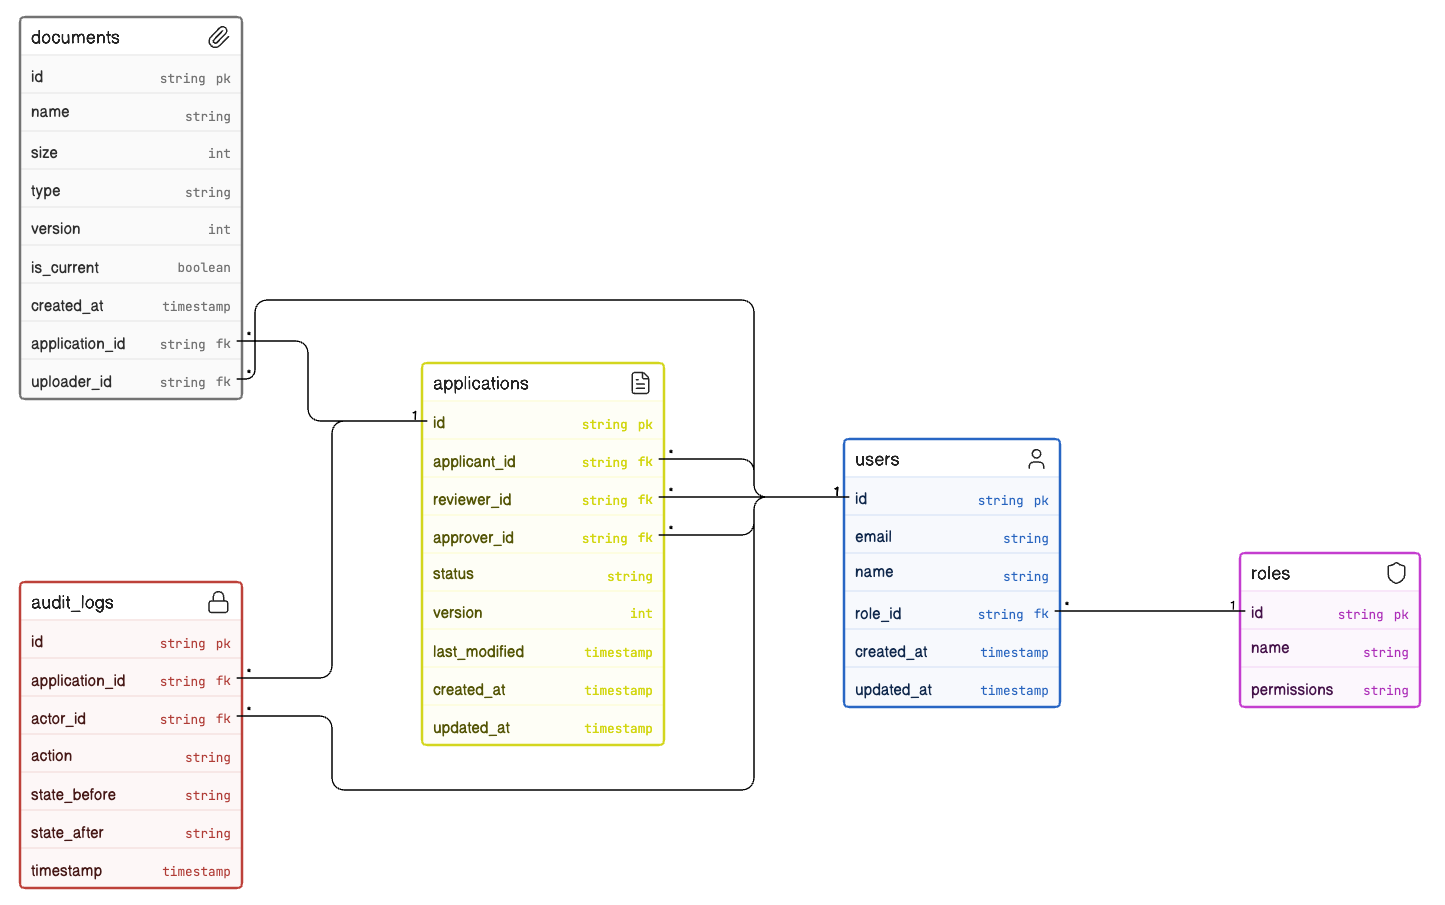
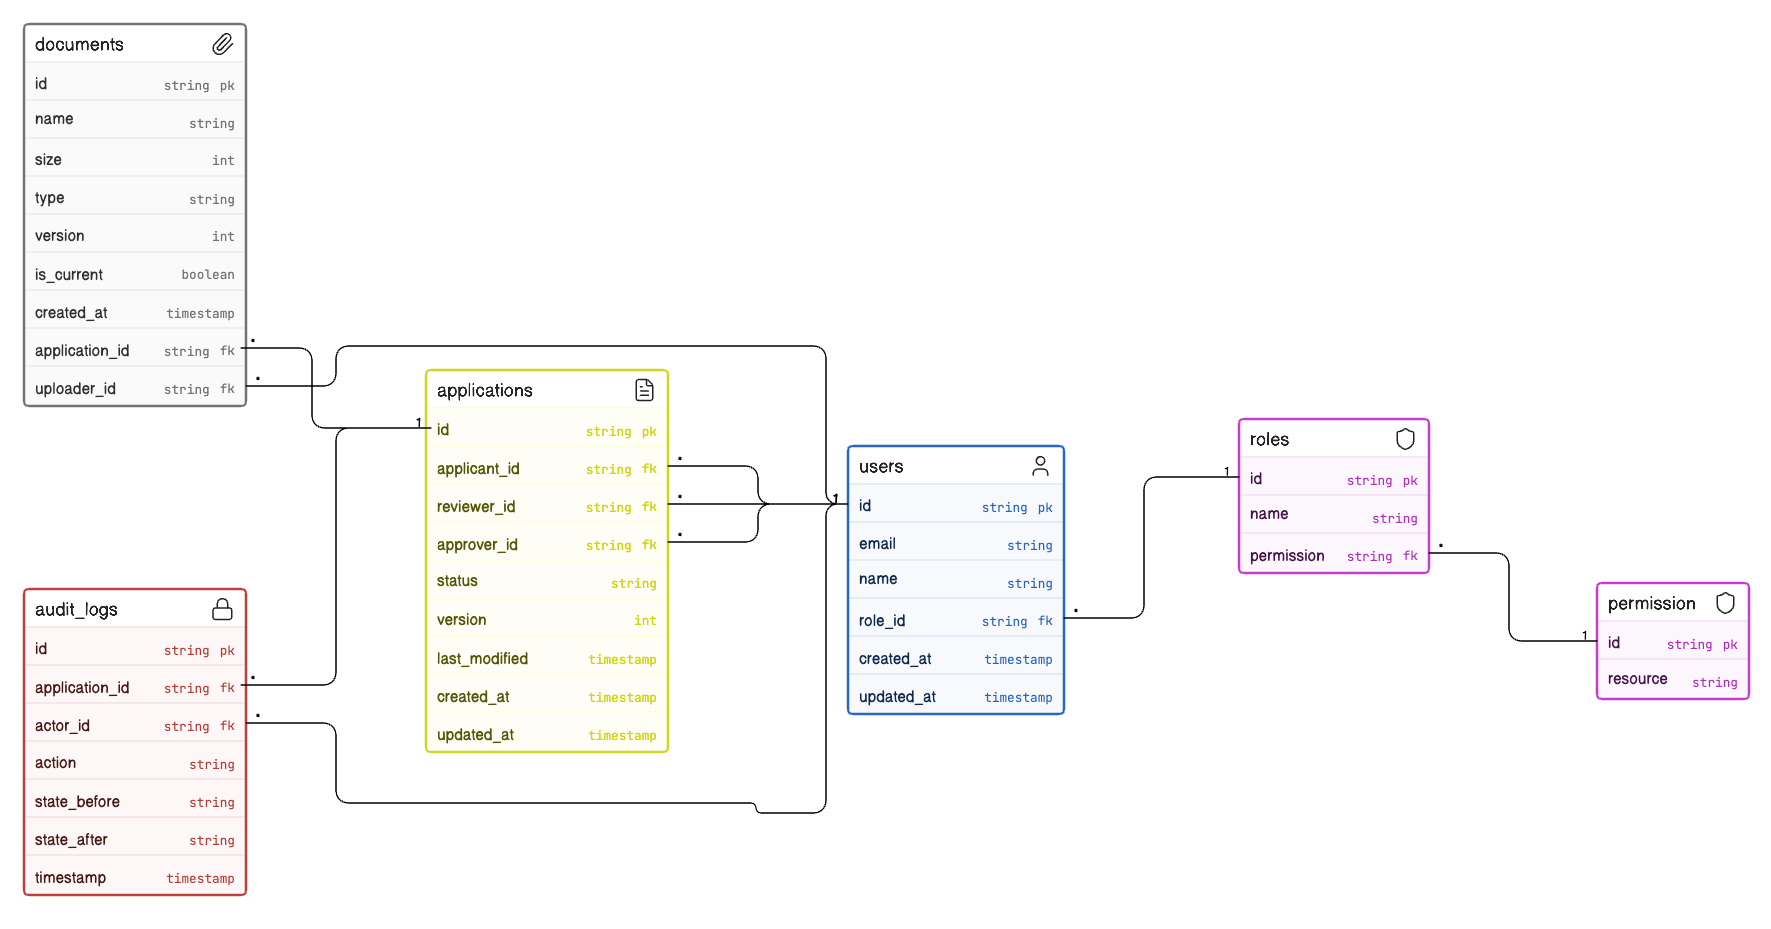
adds Role table to design document

Changed region(s): [[0.0, 0.0, 0.9965, 0.9901], [0.436, 0.8663, 0.4671, 0.8972]]

diff --git a/Design.md b/Design.md
@@ -47,4 +47,17 @@ The platform separates **public edge** traffic from **internal** services and us
 - `documents`: linked to applications; supports document versioning (`version`, `is_current`, `uploader_id`).
 - `audit_logs`: immutable transition history (`actor_id`, `action`, `state_before`, `state_after`, `timestamp`).
 - `users`: identity store for all actors; linked to roles.
-- `roles`: role definitions and permissions (Applicant/Reviewer/Approver).
+- `roles`: role definitions (Applicant/Reviewer/Approver).
+- `Permissions`: Permission Definition (CRUD) to designated resources
+
+## Roles & Granular Permissions
+
+To satisfy the requirement for distinct permission boundaries, the system uses Role-Based Access Control (RBAC) linked to specific resource permissions. 
+
+| Role | Resource | Permission / Action | Business Justification |
+| --- | --- | --- | --- |
+| Applicant | `applications` | create, read_own, update_draft | Applicants must manage their own lifecycle but are restricted from seeing competitor data. |
+| Applicant | `documents` | upload, read_own | Required for providing licensing evidence. |
+| Reviewer | `applications` | read_all, assign_self, request_info | Reviewers act as technical analysts to verify submission completeness. |
+| Reviewer | `audit_logs` | read_all | Necessary for verifying the history of a specific application. |
+| Approver | `applications` | read_all, final_decision | Executive role responsible for the legal granting of licenses. |